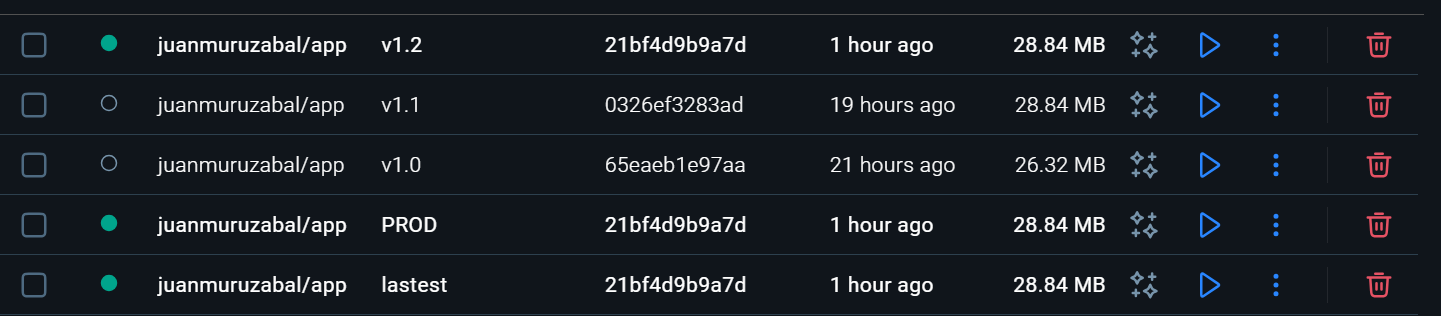
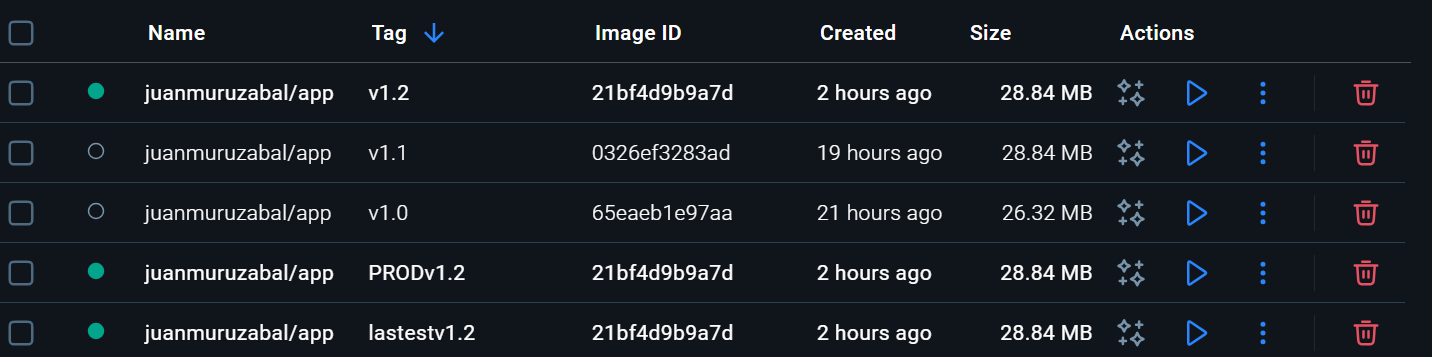
terminado terminado !

Changed region(s): [[0.0, 0.2278, 0.9832, 0.9968], [0.0, 0.0285, 0.9832, 0.1994]]

diff --git a/README.md b/README.md
@@ -121,7 +121,7 @@ http://localhost:8082/ambiente
 
 - suponemos que la aplicacion (la imagen tomada en el docker compose) cumplio los estandares del entorno PROD
 
-cambiamos la etiqueta para subir docker tag juanmuruzabal/app:v1.2 juanmuruzabal/app:lastest
+cambiamos la etiqueta para subir docker tag juanmuruzabal/app:v1.2 juanmuruzabal/app:lastestv1.2
 
 donde lastest es la imagen de produccion (por el flujo de trabajo) y la ultima
 
